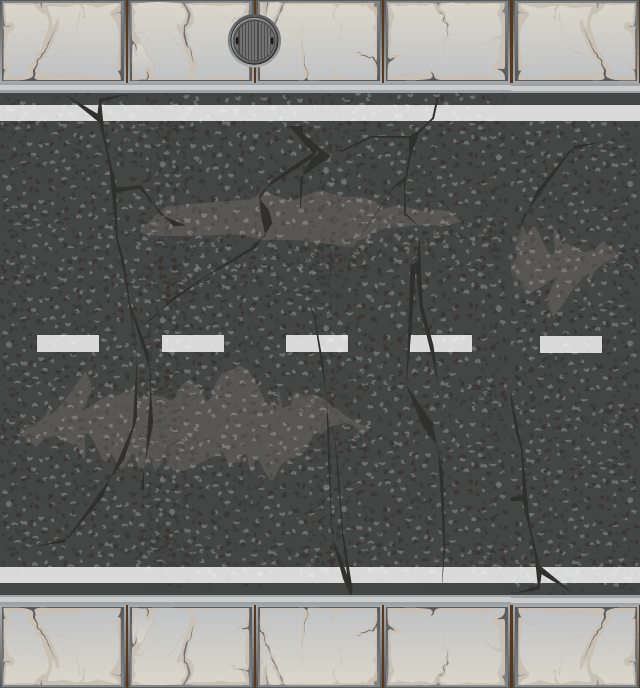
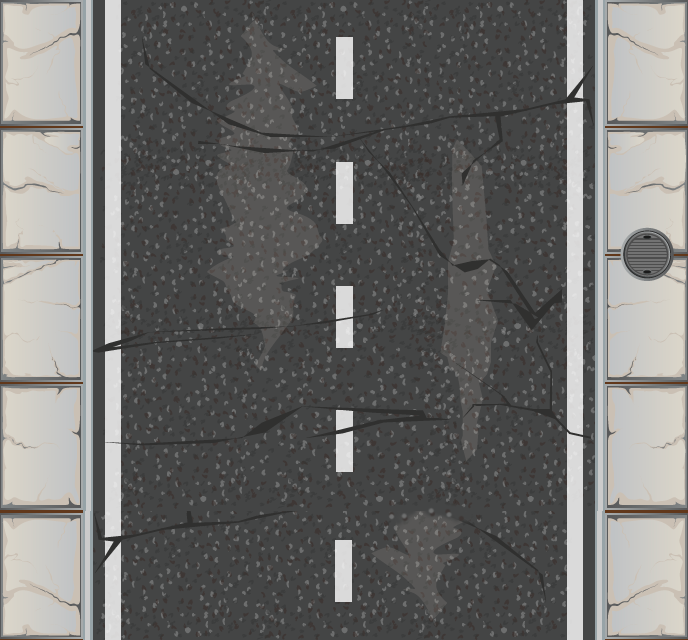
bot can go forward on line track

diff --git a/src/Client/BotHandler.cpp b/src/Client/BotHandler.cpp
@@ -1,32 +1,38 @@
 #include "BotHandler.h"
 #include "TextureCreator.h"
+#include "../Common/Event/CommandEvent.h"
 #include <iostream>
 
-BotHandler::BotHandler(GameObjects& gameObjects) :
-	gameObjects(gameObjects), playerId(-1) {
+BotHandler::BotHandler(GameObjects& gameObjects, Audio& audio, SafeQueue<Event*>& sendQueue) :
+	gameObjects(gameObjects), audio(audio), sendQueue(sendQueue), playerId(-1) {
 		lua.open("bot_functions.lua");
 }
 
 void BotHandler::setPlayerId(int id) {
 	playerId = id;
+
+	//TODO: va aca?
+	std::map<int, ObjectViewPtr>& tracks = gameObjects.getAllTracks();
+	for (auto it = tracks.rbegin(); it != tracks.rend(); ++it) {
+        lua.addToTrackTable(it->second);
+    }
+	lua.printTrackTable();
 }
 
+//TODO: todo esto es medio mock, tengo que llamar una sola vez por ciclo a lua desde c++
 void BotHandler::handle() {
+	ObjectViewPtr myCar = gameObjects.getCar(playerId);
 	if (insideTracks()) {
-		std::cout << "Inside!\n"; 
+		//TODO: estoy suponiendo que el car esta siempre en el angulo correcto
+		InputEnum mov = (InputEnum) lua.getNextMovement(myCar->getX(), myCar->getY());
+		sendQueue.push(new CommandEvent(mov));
+	} else {
+		audio.playEffect(SFX_CAR_ENGINE);
+		sendQueue.push(new CommandEvent(ACCELERATE));
 	}
 }
 
 bool BotHandler::insideTracks() {
 	ObjectViewPtr myCar = gameObjects.getCar(playerId);
-	std::cout << "My Car: " << myCar->getX() << ", " << myCar->getY() << std::endl;
-
-	std::map<int, ObjectViewPtr>& tracks = gameObjects.getAllTracks();
-	for (auto& it : tracks) {
-		std::cout << "Track: " << it.second->getX() << ", " << it.second->getY() << std::endl;
-		if (lua.insideTrack(myCar->getX(), myCar->getY(), it.second->getX(), it.second->getY())) {
-			return true;
-		}
-	}
-	return false;
+	return lua.insideTracks(myCar->getX(), myCar->getY());
 }

diff --git a/src/Client/LuaInterpreter.cpp b/src/Client/LuaInterpreter.cpp
@@ -1,5 +1,6 @@
 #include "LuaInterpreter.h"
 #include "../Common/Constants.h"
+#include "../Common/Event/CommandEvent.h"
 #include <iostream>
 #include <stdio.h>
 
@@ -14,20 +15,41 @@ void LuaInterpreter::open(const char* filename) {
 	lua_getglobal(L, "setupInitialValues");
 	lua_pushnumber(L, HOR_PS_STRAIGHT_TRACK/2);
 	lua_pushnumber(L, VER_PS_STRAIGHT_TRACK/2);
-	lua_call(L, 2, 0);
+	lua_pushnumber(L, ACCELERATE);
+	lua_call(L, 3, 0);
 }
 
-bool LuaInterpreter::insideTrack(int carX, int carY, int trackX, int trackY) {
-	lua_getglobal(L, "checkInsideTrack");
+void LuaInterpreter::addToTrackTable(ObjectViewPtr track) {
+	lua_getglobal(L, "addToTrackTable");
+	lua_pushnumber(L, track->getX());
+	lua_pushnumber(L, track->getY());
+	lua_pushnumber(L, track->getAngle());
+	lua_call(L, 3, 0);
+}
+
+void LuaInterpreter::printTrackTable() {
+	lua_getglobal(L, "printTrackTable");
+	lua_call(L, 0, 0);
+}
+
+int LuaInterpreter::getNextMovement(int carX, int carY) {
+	lua_getglobal(L, "getNextMovement");
 	lua_pushnumber(L, carX);
 	lua_pushnumber(L, carY);
-	lua_pushnumber(L, trackX);
-	lua_pushnumber(L, trackY);
-	lua_call(L, 4, 1);
+	lua_call(L, 2, 1);
 	int res = lua_tonumber(L, 1);
 	lua_pop(L, 1);
-	return (res == 0);
-	
+	return res;
+}
+
+bool LuaInterpreter::insideTracks(int carX, int carY) {
+	lua_getglobal(L, "checkInsideTracks");
+	lua_pushnumber(L, carX);
+	lua_pushnumber(L, carY);
+	lua_call(L, 2, 1);
+	bool res = lua_toboolean(L, 1);
+	lua_pop(L, 1);
+	return res;
 }
 
 LuaInterpreter::~LuaInterpreter() {

diff --git a/src/Client/View/StraightTrackView.cpp b/src/Client/View/StraightTrackView.cpp
@@ -3,7 +3,7 @@
 
 StraightTrackView::StraightTrackView(const SdlTexture& tex, const int& angle) :
 	ObjectView(tex), angle(angle) {
-	Area srcArea(0, 0, 640, 688);
+	Area srcArea(0, 0, 688, 640);
 	clips.push_back(srcArea);
 	horizontalScale = HOR_PS_STRAIGHT_TRACK;
 	verticalScale = VER_PS_STRAIGHT_TRACK;
@@ -17,3 +17,6 @@ void StraightTrackView::drawAt(int x, int y) {
 	texture.render(srcArea, destArea, (double) angle, SDL_FLIP_NONE);
 }
 
+int StraightTrackView::getAngle() {
+	return angle;
+}

diff --git a/src/Client/BotHandler.h b/src/Client/BotHandler.h
@@ -3,15 +3,20 @@
 
 #include "GameObjects.h"
 #include "LuaInterpreter.h"
+#include "Audio.h"
+#include "../Common/Event/Event.h"
+#include "../Common/SafeQueue.h"
 
 class BotHandler {
 private:
 	GameObjects& gameObjects;
 	LuaInterpreter lua;
+	Audio& audio;
+	SafeQueue<Event*>& sendQueue;
 	int playerId;
 
 public:
-	BotHandler(GameObjects& gameObjects);
+	BotHandler(GameObjects& gameObjects, Audio& audio, SafeQueue<Event*>& sendQueue);
 	void setPlayerId(int id);
 	void handle();
 

diff --git a/src/Client/LuaInterpreter.h b/src/Client/LuaInterpreter.h
@@ -8,6 +8,7 @@
   #include "lualib.h"
   #include "lauxlib.h"
 #endif
+#include "TextureCreator.h"
 
 class LuaInterpreter {
 private:
@@ -17,7 +18,10 @@ public:
 	void open(const char* filename);
 	~LuaInterpreter();
 
-	bool insideTrack(int carX, int carY, int trackX, int trackY);
+	bool insideTracks(int carX, int carY);
+	int getNextMovement(int carX, int carY);
+	void addToTrackTable(ObjectViewPtr track);
+	void printTrackTable();
 
 };
 

diff --git a/src/Client/GameScene.cpp b/src/Client/GameScene.cpp
@@ -20,7 +20,7 @@ GameScene::GameScene(SdlWindow& window, Queue<SnapshotEvent*>& recvQueue,
 	creator(window),
 
 	gameObjects(creator),
-	bot(gameObjects),
+	bot(gameObjects, audio, sendQueue),
 
 	conv(PIXELS_PER_BLOCK), 
 	xScreen(0),

diff --git a/src/Client/View/CurveTrackView.cpp b/src/Client/View/CurveTrackView.cpp
@@ -15,3 +15,7 @@ void CurveTrackView::drawAt(int x, int y) {
 				  horizontalScale, verticalScale);
 	texture.render(srcArea, destArea, (double) angle, SDL_FLIP_NONE);
 }
+
+int CurveTrackView::getAngle() {
+	return angle;
+}

diff --git a/src/Client/View/StraightTrackView.h b/src/Client/View/StraightTrackView.h
@@ -9,6 +9,7 @@ private:
 public:
 	StraightTrackView(const SdlTexture& tex, const int& angle);
  	virtual void drawAt(int x, int y) override;
+ 	virtual int getAngle() override;
  	virtual ~StraightTrackView() {}
 };
 

diff --git a/src/Client/View/CurveTrackView.h b/src/Client/View/CurveTrackView.h
@@ -9,6 +9,7 @@ private:
 public:
 	CurveTrackView(const SdlTexture& tex, const int& angle);
  	virtual void drawAt(int x, int y) override;
+ 	virtual int getAngle() override;
  	virtual ~CurveTrackView() {}
 };
 
